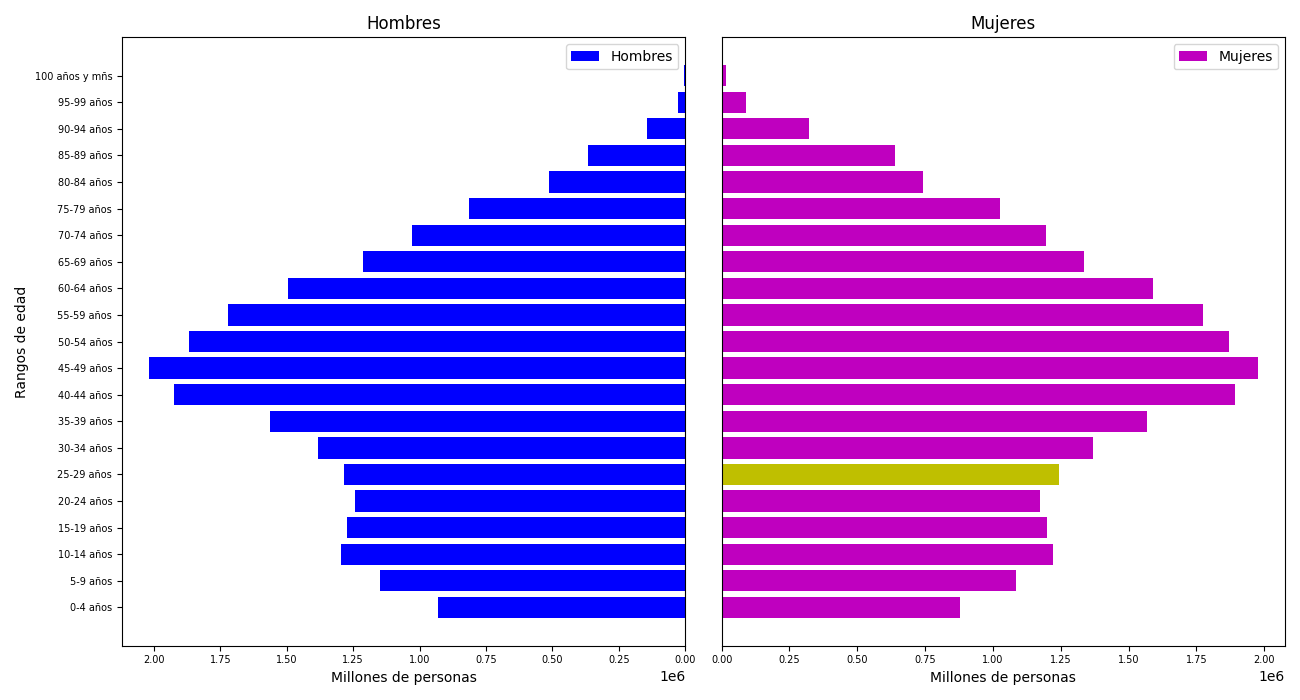
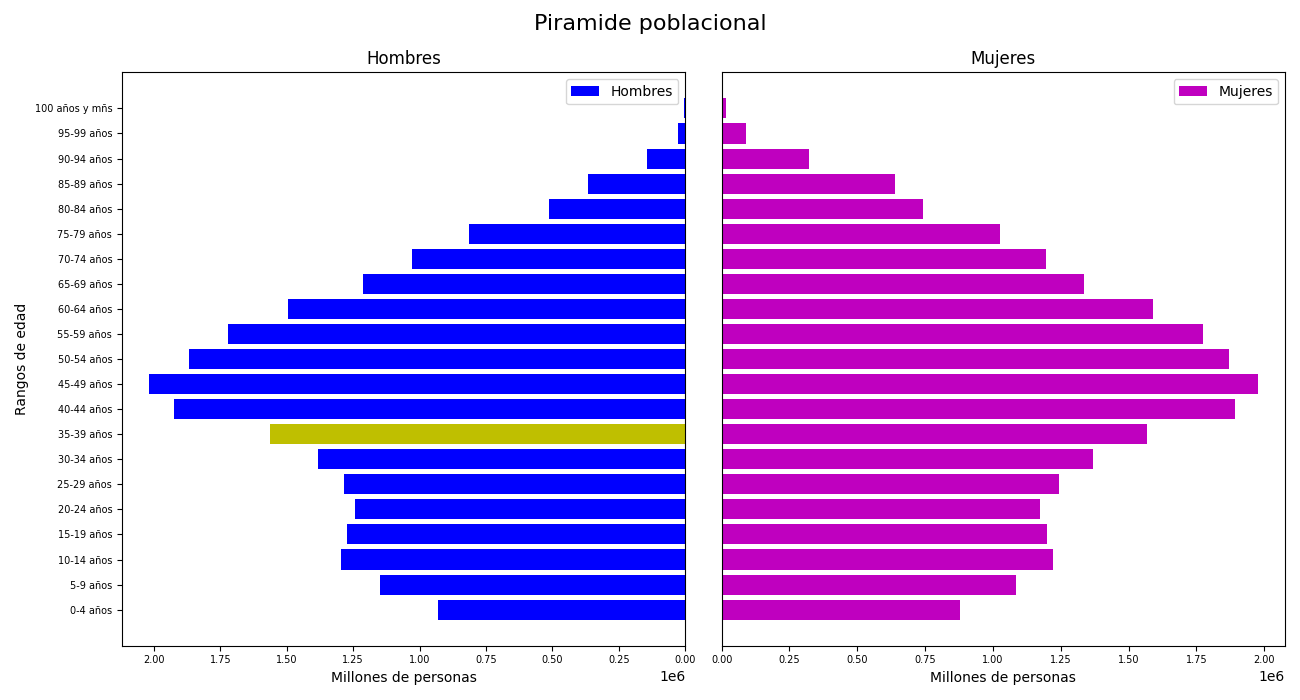
añado titulo al grafico y cambio contraseña.Revisión y entrega.

diff --git a/templates/signin.html b/templates/signin.html
@@ -20,7 +20,7 @@
             <input type="text" name="apellido1" placeholder="apellido1" required/>
             <input type="text" name="apellido2" placeholder="apellido2" required/>
             <input type="number" name="edad" placeholder="edad" required/>
-            <input type="text" name="genero" placeholder="Genero :  H , M , NS/NC " required/>
+            <input type="text" name="genero" placeholder="Genero :  H , D , NS/NC " required/>
             <input type="submit" value="Enviar">
         </form>
     </main>

diff --git a/app.py b/app.py
@@ -17,7 +17,7 @@ def connectBD():
         # host = "localhost",
         host="127.0.0.1",
         user = "root",
-        passwd = "holamundo1984",
+        passwd = "sdfasdfasdfasdfasdfasdfasdfasdfasdfsadfsadfsadfsadfasdfsadf",
         database = "users"
     )
     return db
@@ -352,7 +352,7 @@ def EjercicioBigDATA(edad,sexo):
     from matplotlib import pyplot as plt
     fig, axs = plt.subplots(1,2,figsize=(13,7)) 
         # # Configuro  sistema d'eixos 
-    plt.title("Piramide Poblacional")     
+    fig.suptitle('Piramide poblacional', fontsize=16)         
     
 
     # Printar la barra de edad que pertoque de la persona en amarillo
